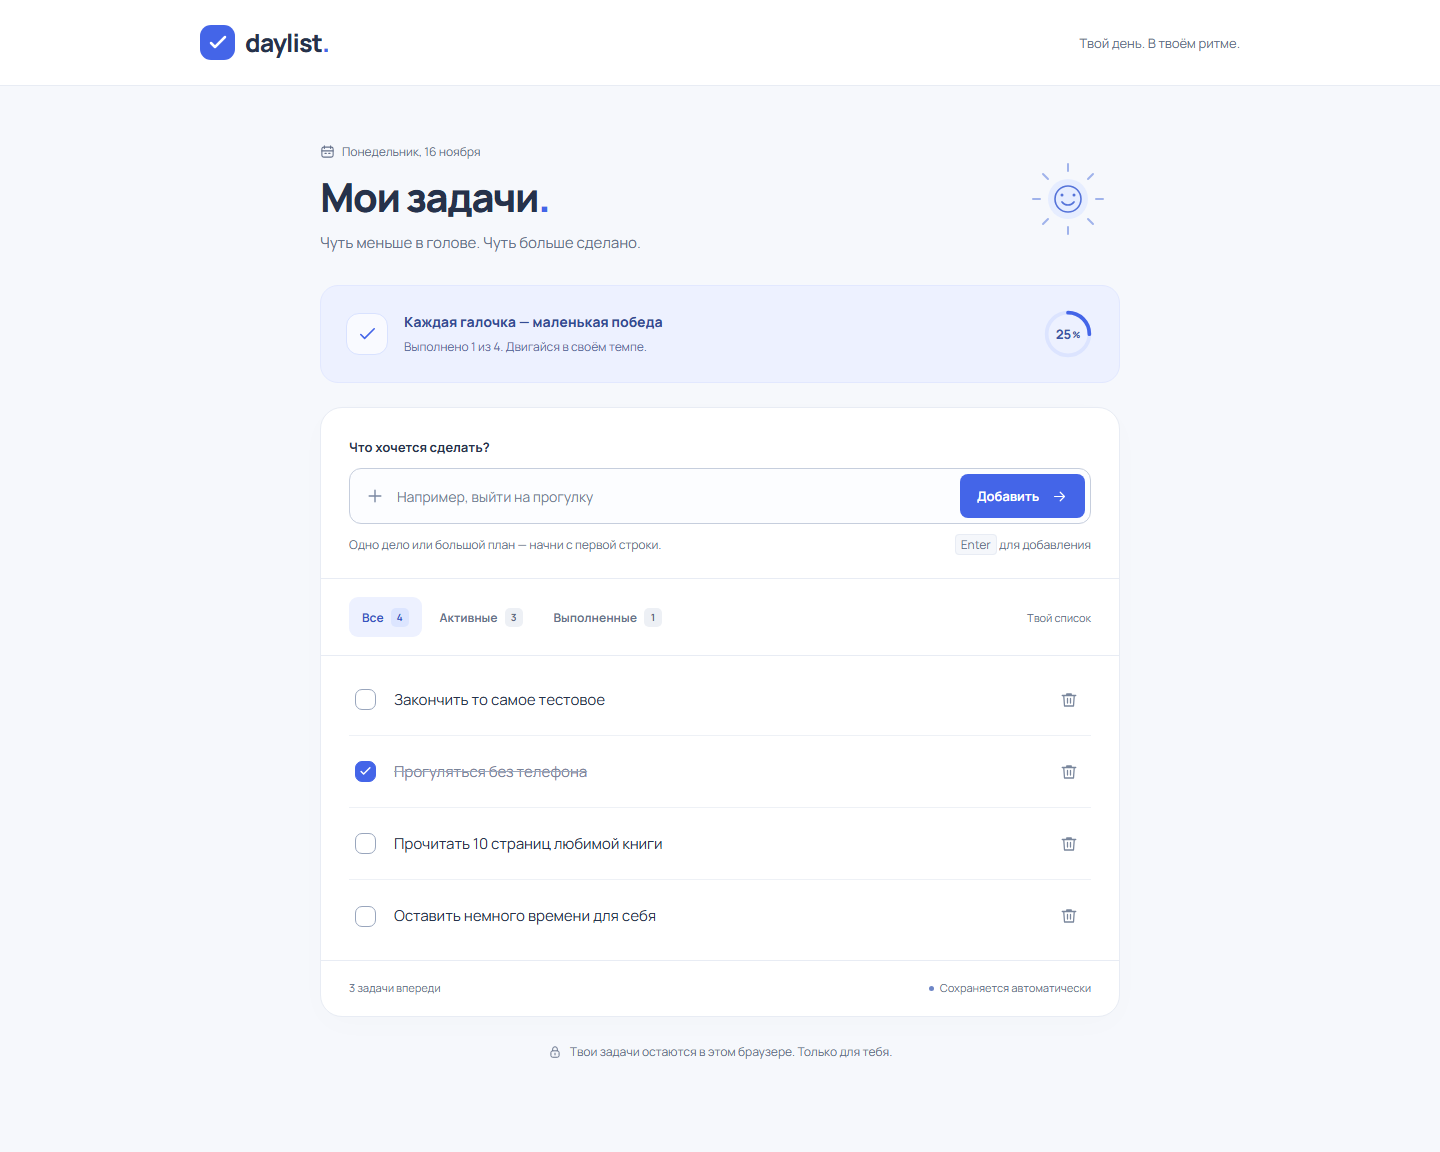
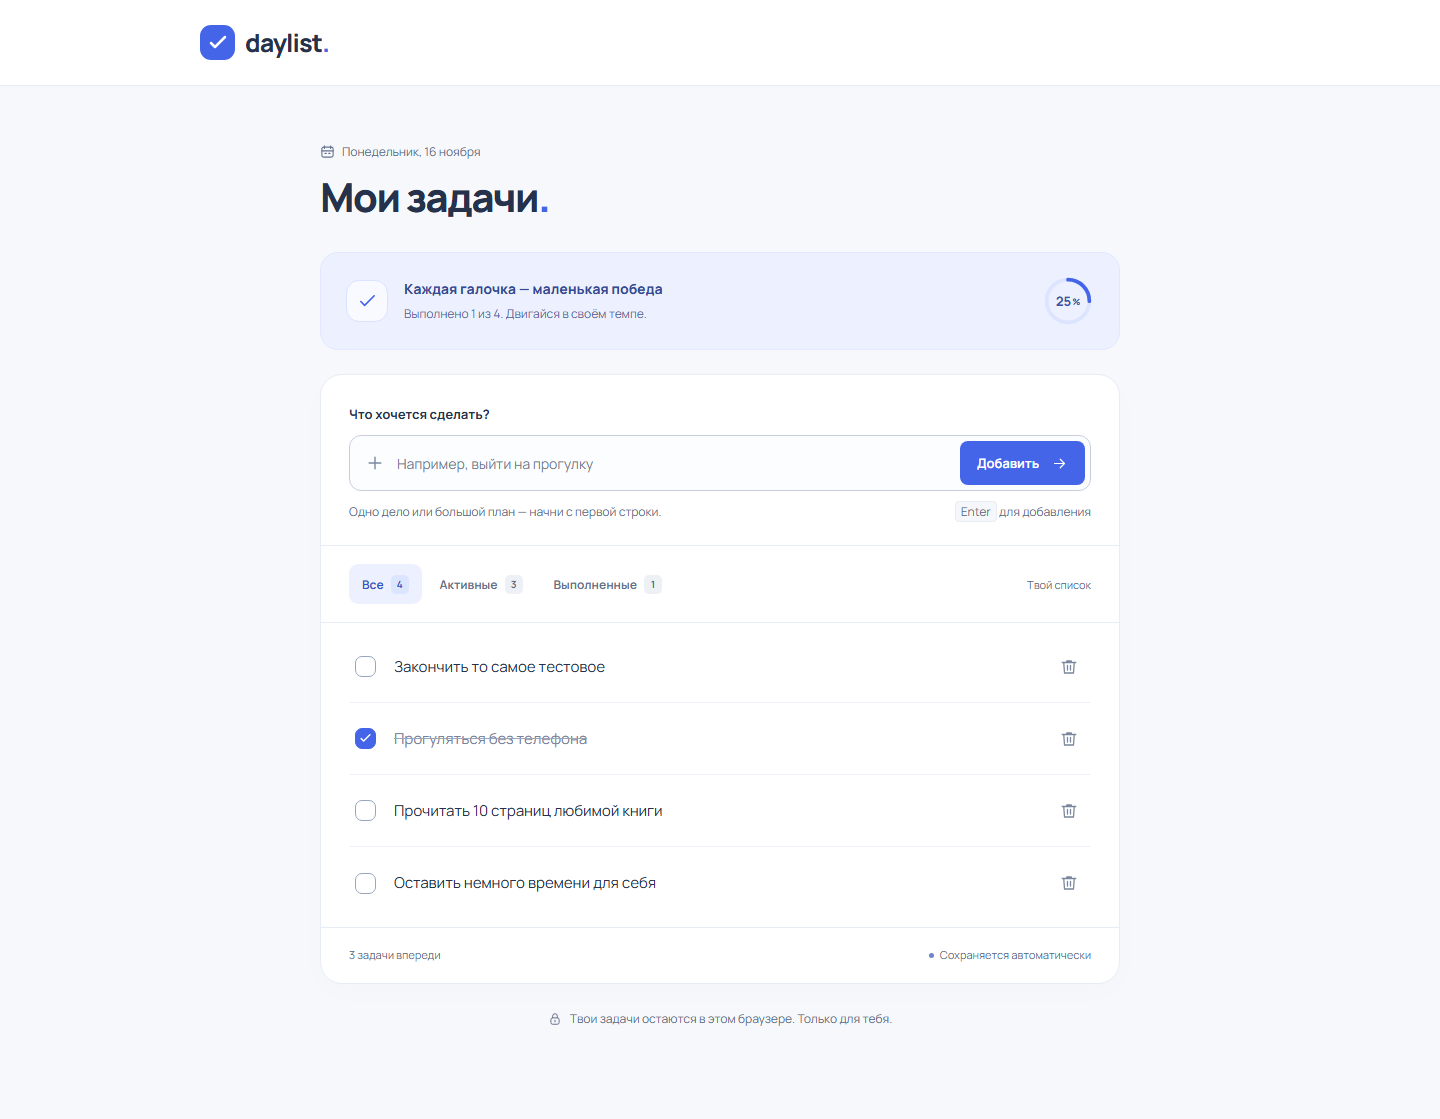
Remove decorative copy and example task suggestions

diff --git a/src/styles.css b/src/styles.css
@@ -121,12 +121,7 @@
     font-weight: 800;
     letter-spacing: -1.6px;
     line-height: 1.25;
-    margin: 12px 0 9px;
-  }
-  .page-heading p {
-    color: var(--muted);
-    font-size: 15px;
-    line-height: 1.6;
+    margin: 12px 0 0;
   }
   .task-panel {
     margin-top: 24px;
@@ -182,10 +177,6 @@
     color: var(--accent);
     margin-left: -10px;
   }
-  .header-note {
-    color: var(--muted);
-    font-size: 13px;
-  }
   .date-label {
     display: flex;
     align-items: center;
@@ -202,16 +193,6 @@
   }
   .heading-dot {
     color: var(--accent);
-  }
-  .sun {
-    width: 88px;
-    height: 88px;
-    flex-shrink: 0;
-    margin-right: 8px;
-  }
-  .sun svg {
-    width: 100%;
-    height: 100%;
   }
   .progress-card {
     display: flex;
@@ -462,7 +443,7 @@
     align-items: center;
     text-align: center;
     padding: 28px 24px 38px;
-    min-height: 331px;
+    min-height: 270px;
     justify-content: center;
   }
   .empty-illustration {
@@ -481,43 +462,6 @@
     line-height: 1.85;
     color: var(--muted);
     margin-top: 7px;
-  }
-  .suggestions {
-    margin-top: 23px;
-  }
-  .suggestions > span {
-    display: block;
-    color: var(--muted);
-    font-size: 10px;
-    margin-bottom: 9px;
-  }
-  .suggestions > div {
-    display: flex;
-    justify-content: center;
-    gap: 8px;
-    flex-wrap: wrap;
-  }
-  .suggestion-button {
-    display: flex;
-    align-items: center;
-    justify-content: center;
-    gap: 5px;
-    border: 1px solid var(--border);
-    background: white;
-    color: #5d6c8a;
-    border-radius: 8px;
-    font-size: 11px;
-    padding: 9px 11px;
-    min-height: 36px;
-  }
-  .suggestion-button:hover {
-    border-color: #aebdf2;
-    color: var(--accent);
-    background: #f7f9ff;
-  }
-  .suggestion-button .icon {
-    width: 13px;
-    height: 13px;
   }
   .empty-check {
     display: grid;
@@ -740,9 +684,6 @@
     .header-inner {
       padding: 20px 24px;
     }
-    .header-note {
-      font-size: 11px;
-    }
     .workspace {
       padding: 35px 20px 100px;
     }
@@ -752,15 +693,6 @@
     }
     .page-heading h1 {
       letter-spacing: -1.2px;
-    }
-    .page-heading p {
-      font-size: 13px;
-      max-width: 240px;
-    }
-    .sun {
-      width: 66px;
-      height: 66px;
-      margin: 10px 0 0;
     }
     .progress-card {
       padding: 18px;
@@ -834,12 +766,7 @@
     }
     .empty-state {
       padding: 25px 14px 32px;
-      min-height: 330px;
-    }
-    .suggestion-button {
-      padding: 10px 9px;
-      font-size: 10px;
-      min-height: 44px;
+      min-height: 270px;
     }
     .task-list {
       padding: 5px 16px;
@@ -881,17 +808,8 @@
     }
   }
   @media (max-width: 360px) {
-    .header-note {
-      max-width: 110px;
-      text-align: right;
-      line-height: 1.5;
-    }
     .workspace {
       padding-inline: 12px;
-    }
-    .sun {
-      width: 50px;
-      height: 50px;
     }
     .filter-button {
       font-size: 10px;

diff --git a/src/App.tsx b/src/App.tsx
@@ -64,7 +64,6 @@ export default function App() {
             </span>
             daylist<span className="brand-dot">.</span>
           </a>
-          <span className="header-note">Твой день. В твоём ритме.</span>
         </div>
       </header>
 
@@ -80,33 +79,6 @@ export default function App() {
             <h1>
               Мои задачи<span className="heading-dot">.</span>
             </h1>
-            <p>Чуть меньше в голове. Чуть больше сделано.</p>
-          </div>
-          <div className="sun" aria-hidden="true">
-            <svg viewBox="0 0 88 88" fill="none">
-              <circle cx="44" cy="44" r="20" fill="#e6edff" />
-              <circle
-                cx="44"
-                cy="44"
-                r="13"
-                stroke="#5573d9"
-                strokeWidth="1.6"
-              />
-              <path
-                d="M44 9v7M44 72v7M9 44h7M72 44h7M19 19l5 5M64 64l5 5M19 69l5-5M64 24l5-5"
-                stroke="#a0b3eb"
-                strokeWidth="2"
-                strokeLinecap="round"
-              />
-              <path
-                d="M38 47c3 4 9 4 12 0"
-                stroke="#5573d9"
-                strokeWidth="1.7"
-                strokeLinecap="round"
-              />
-              <circle cx="38" cy="40" r="1.5" fill="#5573d9" />
-              <circle cx="50" cy="40" r="1.5" fill="#5573d9" />
-            </svg>
           </div>
         </div>
 
@@ -180,13 +152,10 @@ export default function App() {
             filter={filter}
             onToggle={toggleTask}
             onDelete={deleteTask}
-            onAdd={handleAdd}
           />
           <div className="list-footer">
             <span aria-live="polite" aria-atomic="true">
-              {tasks.length
-                ? `${active} ${pluralTasks(active)} впереди`
-                : "Чистый лист — хорошее начало"}
+              {tasks.length > 0 && `${active} ${pluralTasks(active)} впереди`}
             </span>
             <span className="save-status">
               <span

diff --git a/src/components/TaskList.tsx b/src/components/TaskList.tsx
@@ -8,7 +8,6 @@ type Props = {
   filter: TaskFilter;
   onToggle: (id: string) => void;
   onDelete: (id: string) => void;
-  onAdd: (title: string) => boolean;
 };
 
 function EmptyIllustration() {
@@ -93,7 +92,6 @@ export function TaskList({
   filter,
   onToggle,
   onDelete,
-  onAdd,
 }: Props) {
   if (tasks.length > 0) {
     return (
@@ -128,35 +126,12 @@ export function TaskList({
             ? "Всё сделано. Выдыхай!"
             : "Первые галочки ещё впереди"}
       </h2>
-      <p>
-        {isNew ? (
-          <>
-            Пусть важное будет перед глазами,
-            <br />а не в голове. Добавь первую задачу.
-          </>
-        ) : isActive ? (
-          "Все задачи выполнены. Можно немного отдохнуть."
-        ) : (
-          "Отметь выполненную задачу — и она появится здесь."
-        )}
-      </p>
-      {isNew && (
-        <div className="suggestions">
-          <span>Можно начать с малого</span>
-          <div>
-            {["Разобрать почту", "Прочитать 10 страниц"].map((title) => (
-              <button
-                className="suggestion-button"
-                type="button"
-                key={title}
-                onClick={() => onAdd(title)}
-              >
-                <Icon name="plus" />
-                {title}
-              </button>
-            ))}
-          </div>
-        </div>
+      {!isNew && (
+        <p>
+          {isActive
+            ? "Все задачи выполнены. Можно немного отдохнуть."
+            : "Отметь выполненную задачу — и она появится здесь."}
+        </p>
       )}
     </div>
   );

diff --git a/DESIGN.md b/DESIGN.md
@@ -18,5 +18,7 @@
 - Шрифт: Manrope Variable, включая кириллицу, с локальной раздачей через Fontsource.
 - Размер центральной области: до 800 px, адаптивные поля на телефоне.
 
-Исходное состояние пустое. Предложения задач добавляются только по нажатию
-пользователя. Демонстрационные данные используются лишь в тестах и скриншотах.
+Исходное состояние пустое. Демонстрационные данные используются лишь в тестах
+и скриншотах. По просьбе пользователя убраны слоган в шапке, солнце, подпись
+под заголовком, фраза «Чистый лист — хорошее начало», пояснение пустого списка
+и блок с предложениями задач.

diff --git a/README.md b/README.md
@@ -17,8 +17,7 @@
 - Адаптация под телефон, управление с клавиатуры, поддержка reduced motion.
 - Сообщения о повреждённых данных или ошибках сохранения.
 
-При первом открытии список пустой. Кнопки с примерами добавляют задачи только
-по нажатию пользователя.
+При первом открытии список пустой.
 
 ## Запуск
 
